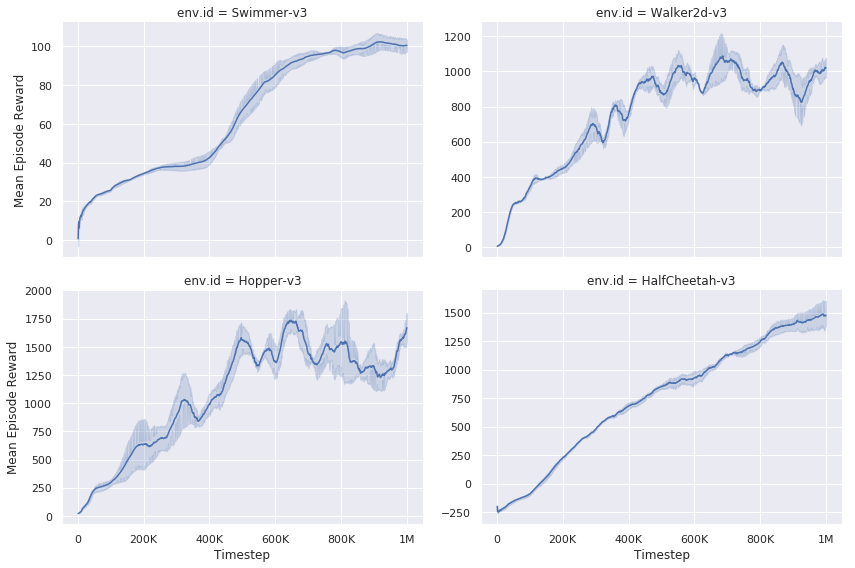
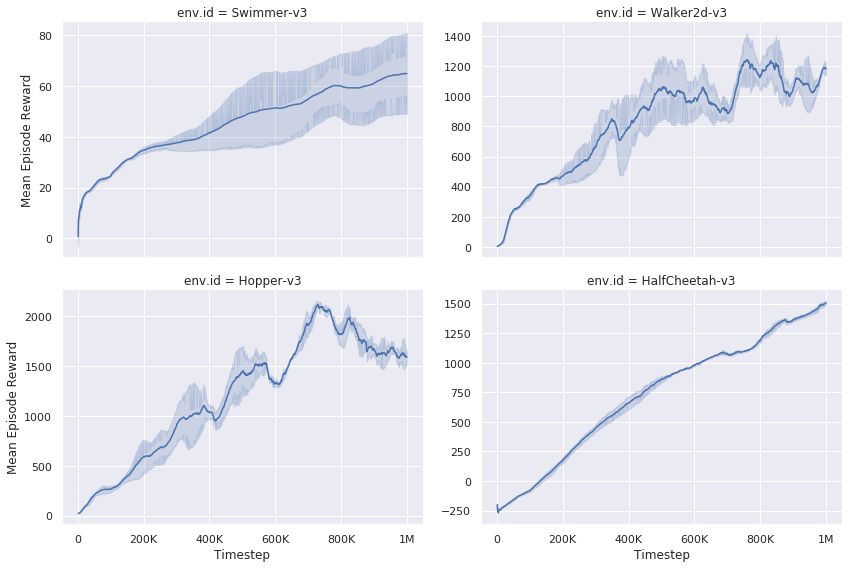
update VPG
Former-commit-id: 9d6af09dd2edfd390b1e2c3d6e04dae4c55f691c

diff --git a/examples/reinforcement_learning/vpg/logs/default/source_files/engine.py b/examples/reinforcement_learning/vpg/logs/default/source_files/engine.py
@@ -1,0 +1,43 @@
+from time import perf_counter
+from itertools import chain
+
+import numpy as np
+
+from lagom import Logger
+from lagom import BaseEngine
+from lagom.transform import describe
+from lagom.utils import color_str
+from lagom.envs.wrappers import get_wrapper
+
+
+class Engine(BaseEngine):        
+    def train(self, n=None, **kwargs):
+        self.agent.train()
+        start_time = perf_counter()
+        
+        D = self.runner(self.agent, self.env, self.config['train.timestep_per_iter'])
+        out_agent = self.agent.learn(D) 
+        
+        logger = Logger()
+        logger('train_iteration', n+1)
+        logger('num_seconds', round(perf_counter() - start_time, 1))
+        [logger(key, value) for key, value in out_agent.items()]
+        logger('num_trajectories', len(D))
+        logger('num_timesteps', sum([len(traj) for traj in D]))
+        logger('accumulated_trained_timesteps', self.agent.total_timestep)
+        G = [traj.numpy_rewards.sum() for traj in D]
+        logger('return', describe(G, axis=-1, repr_indent=1, repr_prefix='\n'))
+        
+        infos = [info for info in chain.from_iterable([traj.infos for traj in D]) if 'episode' in info]
+        online_returns = [info['episode']['return'] for info in infos]
+        online_horizons = [info['episode']['horizon'] for info in infos]
+        logger('online_return', describe(online_returns, axis=-1, repr_indent=1, repr_prefix='\n'))
+        logger('online_horizon', describe(online_horizons, axis=-1, repr_indent=1, repr_prefix='\n'))
+            
+        monitor_env = get_wrapper(self.env, 'VecMonitor')
+        logger('running_return', describe(monitor_env.return_queue, axis=-1, repr_indent=1, repr_prefix='\n'))
+        logger('running_horizon', describe(monitor_env.horizon_queue, axis=-1, repr_indent=1, repr_prefix='\n'))
+        return logger
+        
+    def eval(self, n=None, **kwargs):
+        pass

diff --git a/examples/reinforcement_learning/vpg/logs/default_new/source_files/engine.py b/examples/reinforcement_learning/vpg/logs/default_new/source_files/engine.py
@@ -1,0 +1,43 @@
+from time import perf_counter
+from itertools import chain
+
+import numpy as np
+
+from lagom import Logger
+from lagom import BaseEngine
+from lagom.transform import describe
+from lagom.utils import color_str
+from lagom.envs.wrappers import get_wrapper
+
+
+class Engine(BaseEngine):        
+    def train(self, n=None, **kwargs):
+        self.agent.train()
+        start_time = perf_counter()
+        
+        D = self.runner(self.agent, self.env, self.config['train.timestep_per_iter'])
+        out_agent = self.agent.learn(D) 
+        
+        logger = Logger()
+        logger('train_iteration', n+1)
+        logger('num_seconds', round(perf_counter() - start_time, 1))
+        [logger(key, value) for key, value in out_agent.items()]
+        logger('num_trajectories', len(D))
+        logger('num_timesteps', sum([len(traj) for traj in D]))
+        logger('accumulated_trained_timesteps', self.agent.total_timestep)
+        G = [traj.numpy_rewards.sum() for traj in D]
+        logger('return', describe(G, axis=-1, repr_indent=1, repr_prefix='\n'))
+        
+        infos = [info for info in chain.from_iterable([traj.infos for traj in D]) if 'episode' in info]
+        online_returns = [info['episode']['return'] for info in infos]
+        online_horizons = [info['episode']['horizon'] for info in infos]
+        logger('online_return', describe(online_returns, axis=-1, repr_indent=1, repr_prefix='\n'))
+        logger('online_horizon', describe(online_horizons, axis=-1, repr_indent=1, repr_prefix='\n'))
+            
+        monitor_env = get_wrapper(self.env, 'VecMonitor')
+        logger('running_return', describe(monitor_env.return_queue, axis=-1, repr_indent=1, repr_prefix='\n'))
+        logger('running_horizon', describe(monitor_env.horizon_queue, axis=-1, repr_indent=1, repr_prefix='\n'))
+        return logger
+        
+    def eval(self, n=None, **kwargs):
+        pass

diff --git a/examples/reinforcement_learning/vpg/logs/new_default/source_files/engine.py b/examples/reinforcement_learning/vpg/logs/new_default/source_files/engine.py
@@ -1,0 +1,43 @@
+from time import perf_counter
+from itertools import chain
+
+import numpy as np
+
+from lagom import Logger
+from lagom import BaseEngine
+from lagom.transform import describe
+from lagom.utils import color_str
+from lagom.envs.wrappers import get_wrapper
+
+
+class Engine(BaseEngine):        
+    def train(self, n=None, **kwargs):
+        self.agent.train()
+        start_time = perf_counter()
+        
+        D = self.runner(self.agent, self.env, self.config['train.timestep_per_iter'])
+        out_agent = self.agent.learn(D) 
+        
+        logger = Logger()
+        logger('train_iteration', n+1)
+        logger('num_seconds', round(perf_counter() - start_time, 1))
+        [logger(key, value) for key, value in out_agent.items()]
+        logger('num_trajectories', len(D))
+        logger('num_timesteps', sum([len(traj) for traj in D]))
+        logger('accumulated_trained_timesteps', self.agent.total_timestep)
+        G = [traj.numpy_rewards.sum() for traj in D]
+        logger('return', describe(G, axis=-1, repr_indent=1, repr_prefix='\n'))
+        
+        infos = [info for info in chain.from_iterable([traj.infos for traj in D]) if 'episode' in info]
+        online_returns = [info['episode']['return'] for info in infos]
+        online_horizons = [info['episode']['horizon'] for info in infos]
+        logger('online_return', describe(online_returns, axis=-1, repr_indent=1, repr_prefix='\n'))
+        logger('online_horizon', describe(online_horizons, axis=-1, repr_indent=1, repr_prefix='\n'))
+            
+        monitor_env = get_wrapper(self.env, 'VecMonitor')
+        logger('running_return', describe(monitor_env.return_queue, axis=-1, repr_indent=1, repr_prefix='\n'))
+        logger('running_horizon', describe(monitor_env.horizon_queue, axis=-1, repr_indent=1, repr_prefix='\n'))
+        return logger
+        
+    def eval(self, n=None, **kwargs):
+        pass

diff --git a/examples/reinforcement_learning/vpg/logs/default/source_files/agent.py b/examples/reinforcement_learning/vpg/logs/default/source_files/agent.py
@@ -23,7 +23,6 @@ from lagom.transform import explained_variance as ev
 from lagom.transform import describe
 
 
-
 class MLP(Module):
     def __init__(self, config, env, device, **kwargs):
         super().__init__(**kwargs)
@@ -43,26 +42,6 @@ class MLP(Module):
             x = layer_norm(F.relu(layer(x)))
         return x
 
-
-"""
-class MLP(Module):
-    def __init__(self, config, env, device, **kwargs):
-        super().__init__(**kwargs)
-        self.config = config
-        self.env = env
-        self.device = device
-        
-        self.feature_layers = make_fc(flatdim(env.observation_space), config['nn.sizes'])
-        for layer in self.feature_layers:
-            ortho_init(layer, nonlinearity='tanh', constant_bias=0.0)
-        
-        self.to(self.device)
-        
-    def forward(self, x):
-        for layer in self.feature_layers:
-            x = torch.tanh(layer(x))
-        return x
-"""
 
 class Agent(BaseAgent):
     def __init__(self, config, env, device, **kwargs):

diff --git a/examples/reinforcement_learning/vpg/logs/new_default/source_files/experiment.py b/examples/reinforcement_learning/vpg/logs/new_default/source_files/experiment.py
@@ -32,20 +32,20 @@ config = Config(
      
      
      
-     'log.dir': 'logs/default_new', 
+     'log.dir': 'logs/new_default', 
      'log.freq': 10, 
      'checkpoint.freq': 50,
      
      'env.id': Grid(['HalfCheetah-v3', 'Hopper-v3', 'Walker2d-v3', 'Swimmer-v3']), 
      'env.standardize_obs': True,
-     'env.standardize_reward': True,
+     'env.standardize_reward': True, 
      
      'nn.sizes': [64, 64],
      
-     'agent.lr': 1e-3,
-     'agent.use_lr_scheduler': False,
+     'agent.lr': 7e-4,
+     'agent.use_lr_scheduler': True,
      'agent.gamma': 0.99,
-     'agent.gae_lambda': 0.97,
+     'agent.gae_lambda': 0.95,
      'agent.standardize_adv': True,  # standardize advantage estimates
      'agent.max_grad_norm': 0.5,  # grad clipping by norm
      'agent.entropy_coef': 0.01,

diff --git a/examples/reinforcement_learning/vpg/logs/new_default/source_files/agent.py b/examples/reinforcement_learning/vpg/logs/new_default/source_files/agent.py
@@ -23,7 +23,7 @@ from lagom.transform import explained_variance as ev
 from lagom.transform import describe
 
 
-
+"""
 class MLP(Module):
     def __init__(self, config, env, device, **kwargs):
         super().__init__(**kwargs)
@@ -42,9 +42,8 @@ class MLP(Module):
         for layer, layer_norm in zip(self.feature_layers, self.layer_norms):
             x = layer_norm(F.relu(layer(x)))
         return x
-
-
 """
+
 class MLP(Module):
     def __init__(self, config, env, device, **kwargs):
         super().__init__(**kwargs)
@@ -62,7 +61,7 @@ class MLP(Module):
         for layer in self.feature_layers:
             x = torch.tanh(layer(x))
         return x
-"""
+
 
 class Agent(BaseAgent):
     def __init__(self, config, env, device, **kwargs):

diff --git a/examples/reinforcement_learning/vpg/logs/default/source_files/experiment.py b/examples/reinforcement_learning/vpg/logs/default/source_files/experiment.py
@@ -32,13 +32,13 @@ config = Config(
      
      
      
-     'log.dir': 'logs/default_new', 
+     'log.dir': 'logs/default', 
      'log.freq': 10, 
      'checkpoint.freq': 50,
      
      'env.id': Grid(['HalfCheetah-v3', 'Hopper-v3', 'Walker2d-v3', 'Swimmer-v3']), 
      'env.standardize_obs': True,
-     'env.standardize_reward': True,
+     'env.standardize_reward': True, 
      
      'nn.sizes': [64, 64],
      

diff --git a/examples/reinforcement_learning/vpg/logs/default_new/source_files/experiment.py b/examples/reinforcement_learning/vpg/logs/default_new/source_files/experiment.py
@@ -45,7 +45,7 @@ config = Config(
      'agent.lr': 1e-3,
      'agent.use_lr_scheduler': False,
      'agent.gamma': 0.99,
-     'agent.gae_lambda': 0.97,
+     'agent.gae_lambda': 0.95,
      'agent.standardize_adv': True,  # standardize advantage estimates
      'agent.max_grad_norm': 0.5,  # grad clipping by norm
      'agent.entropy_coef': 0.01,
